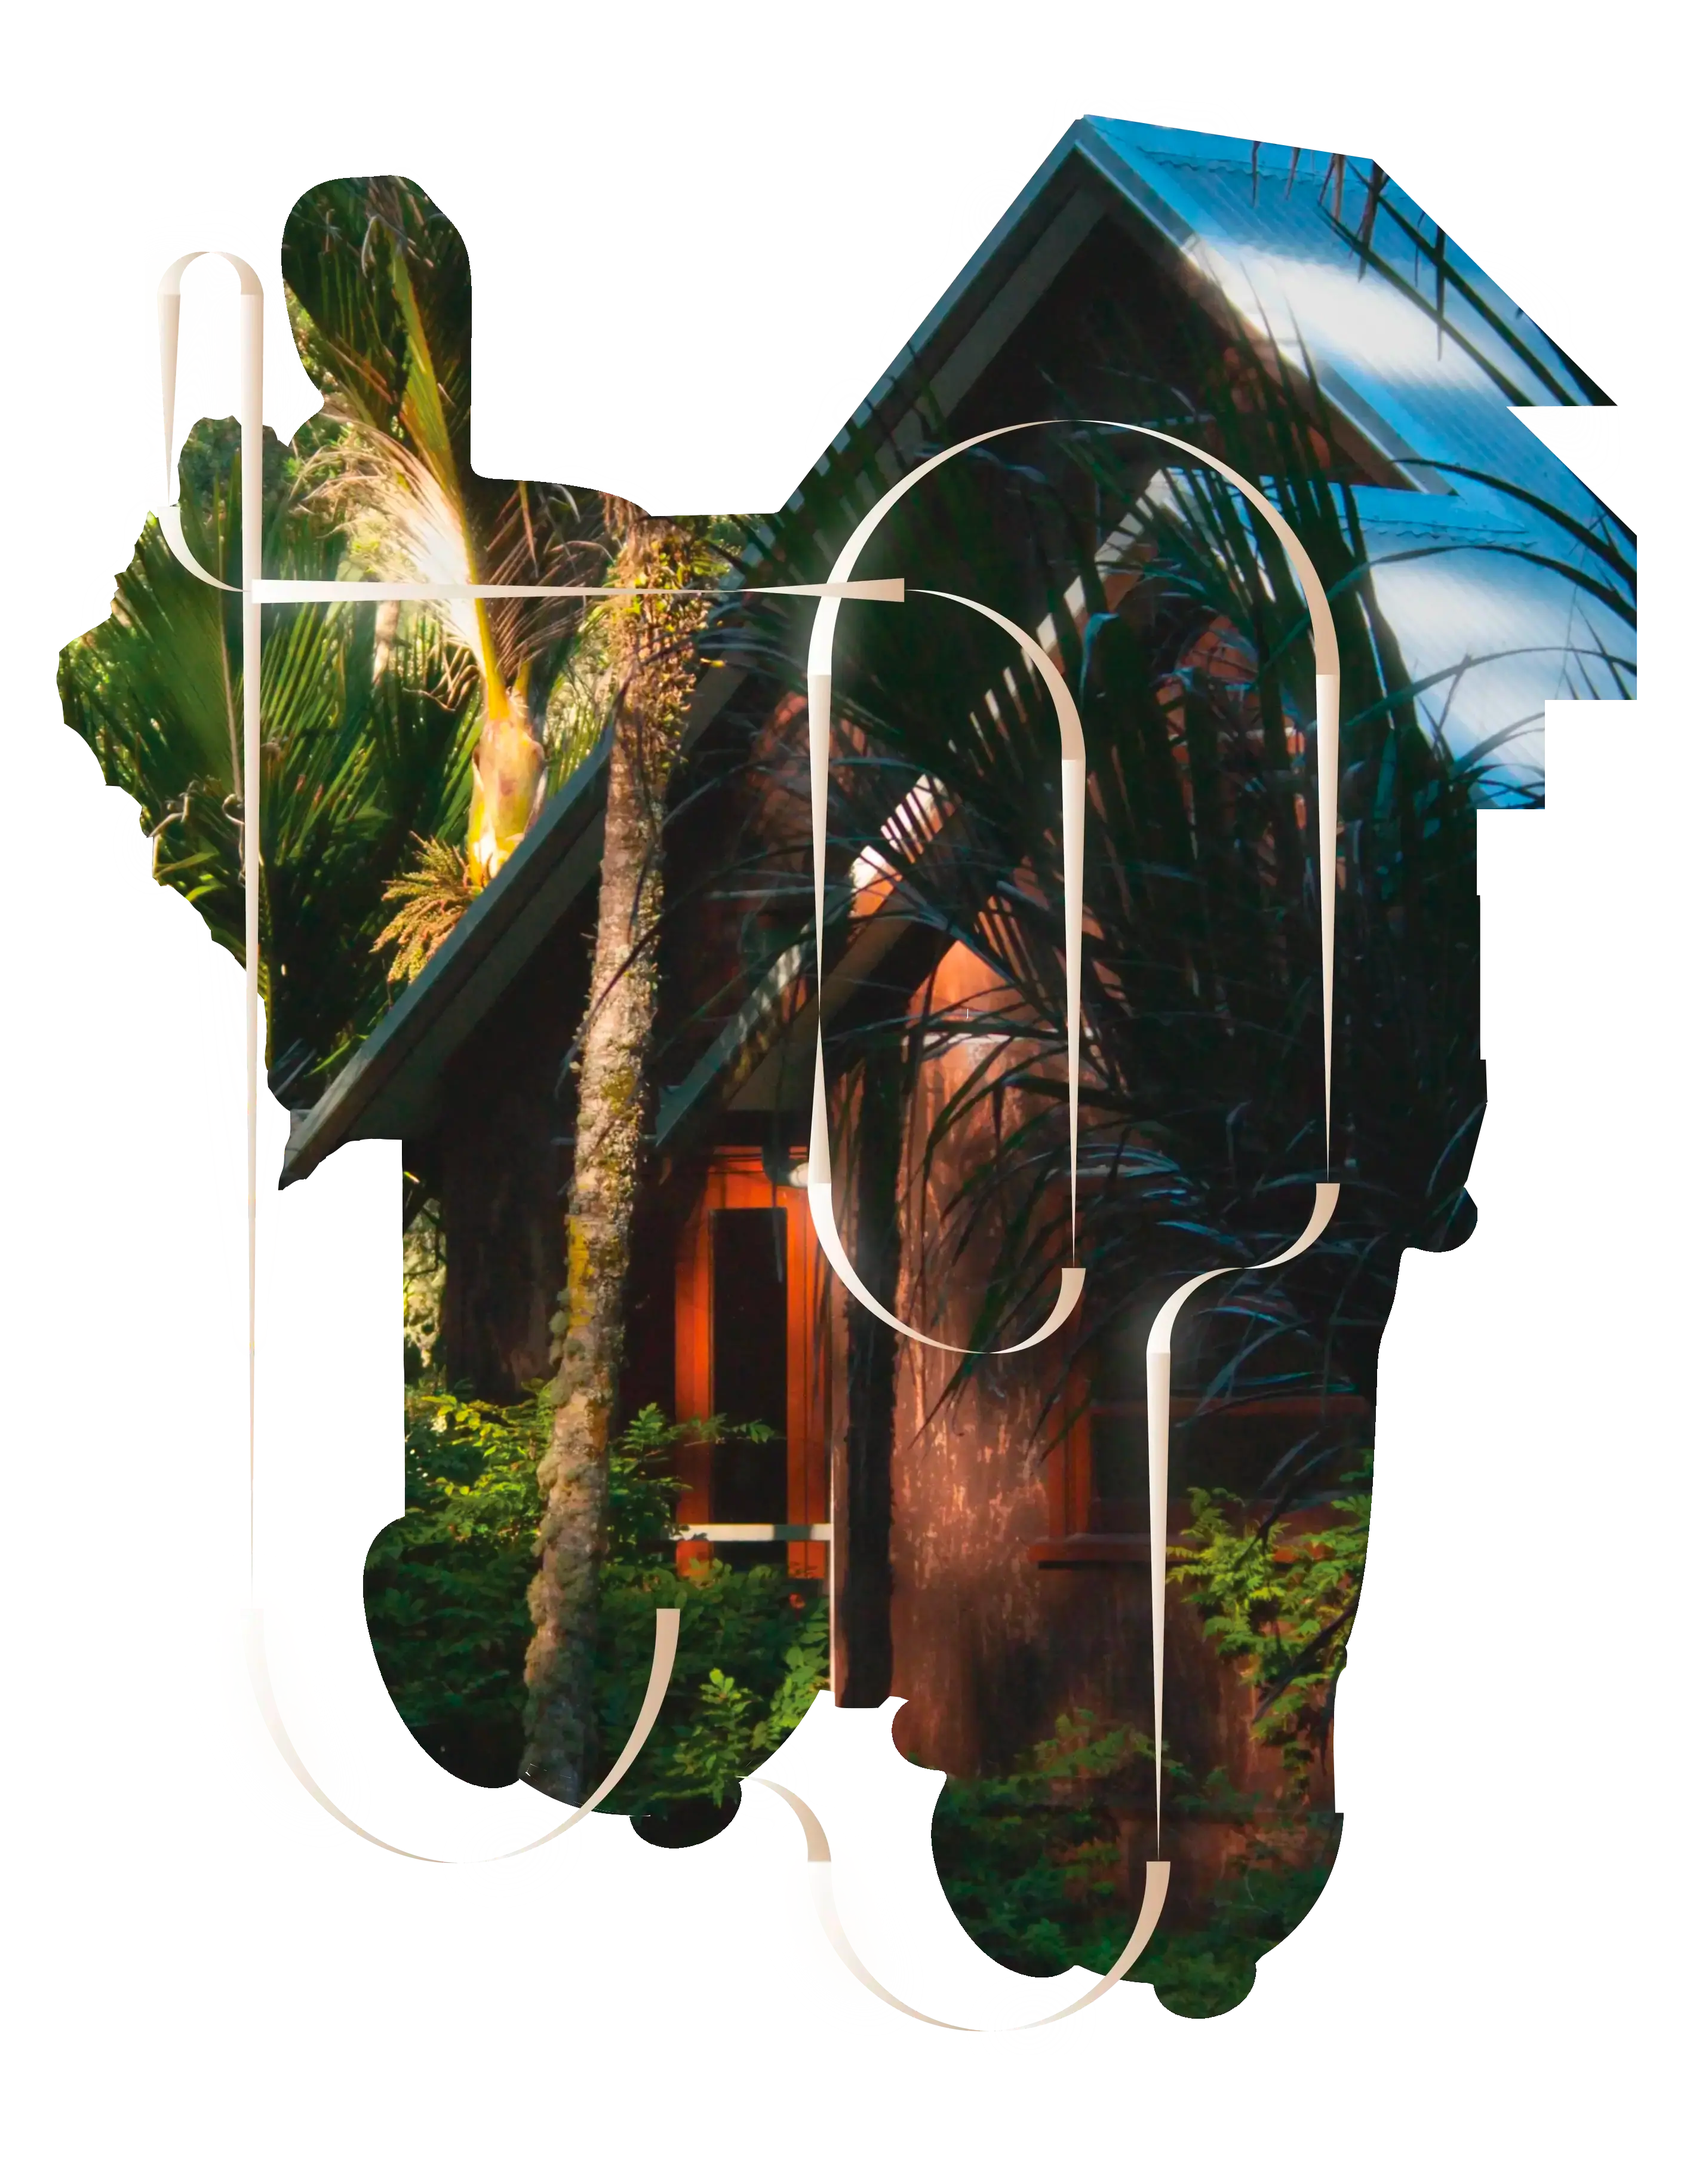
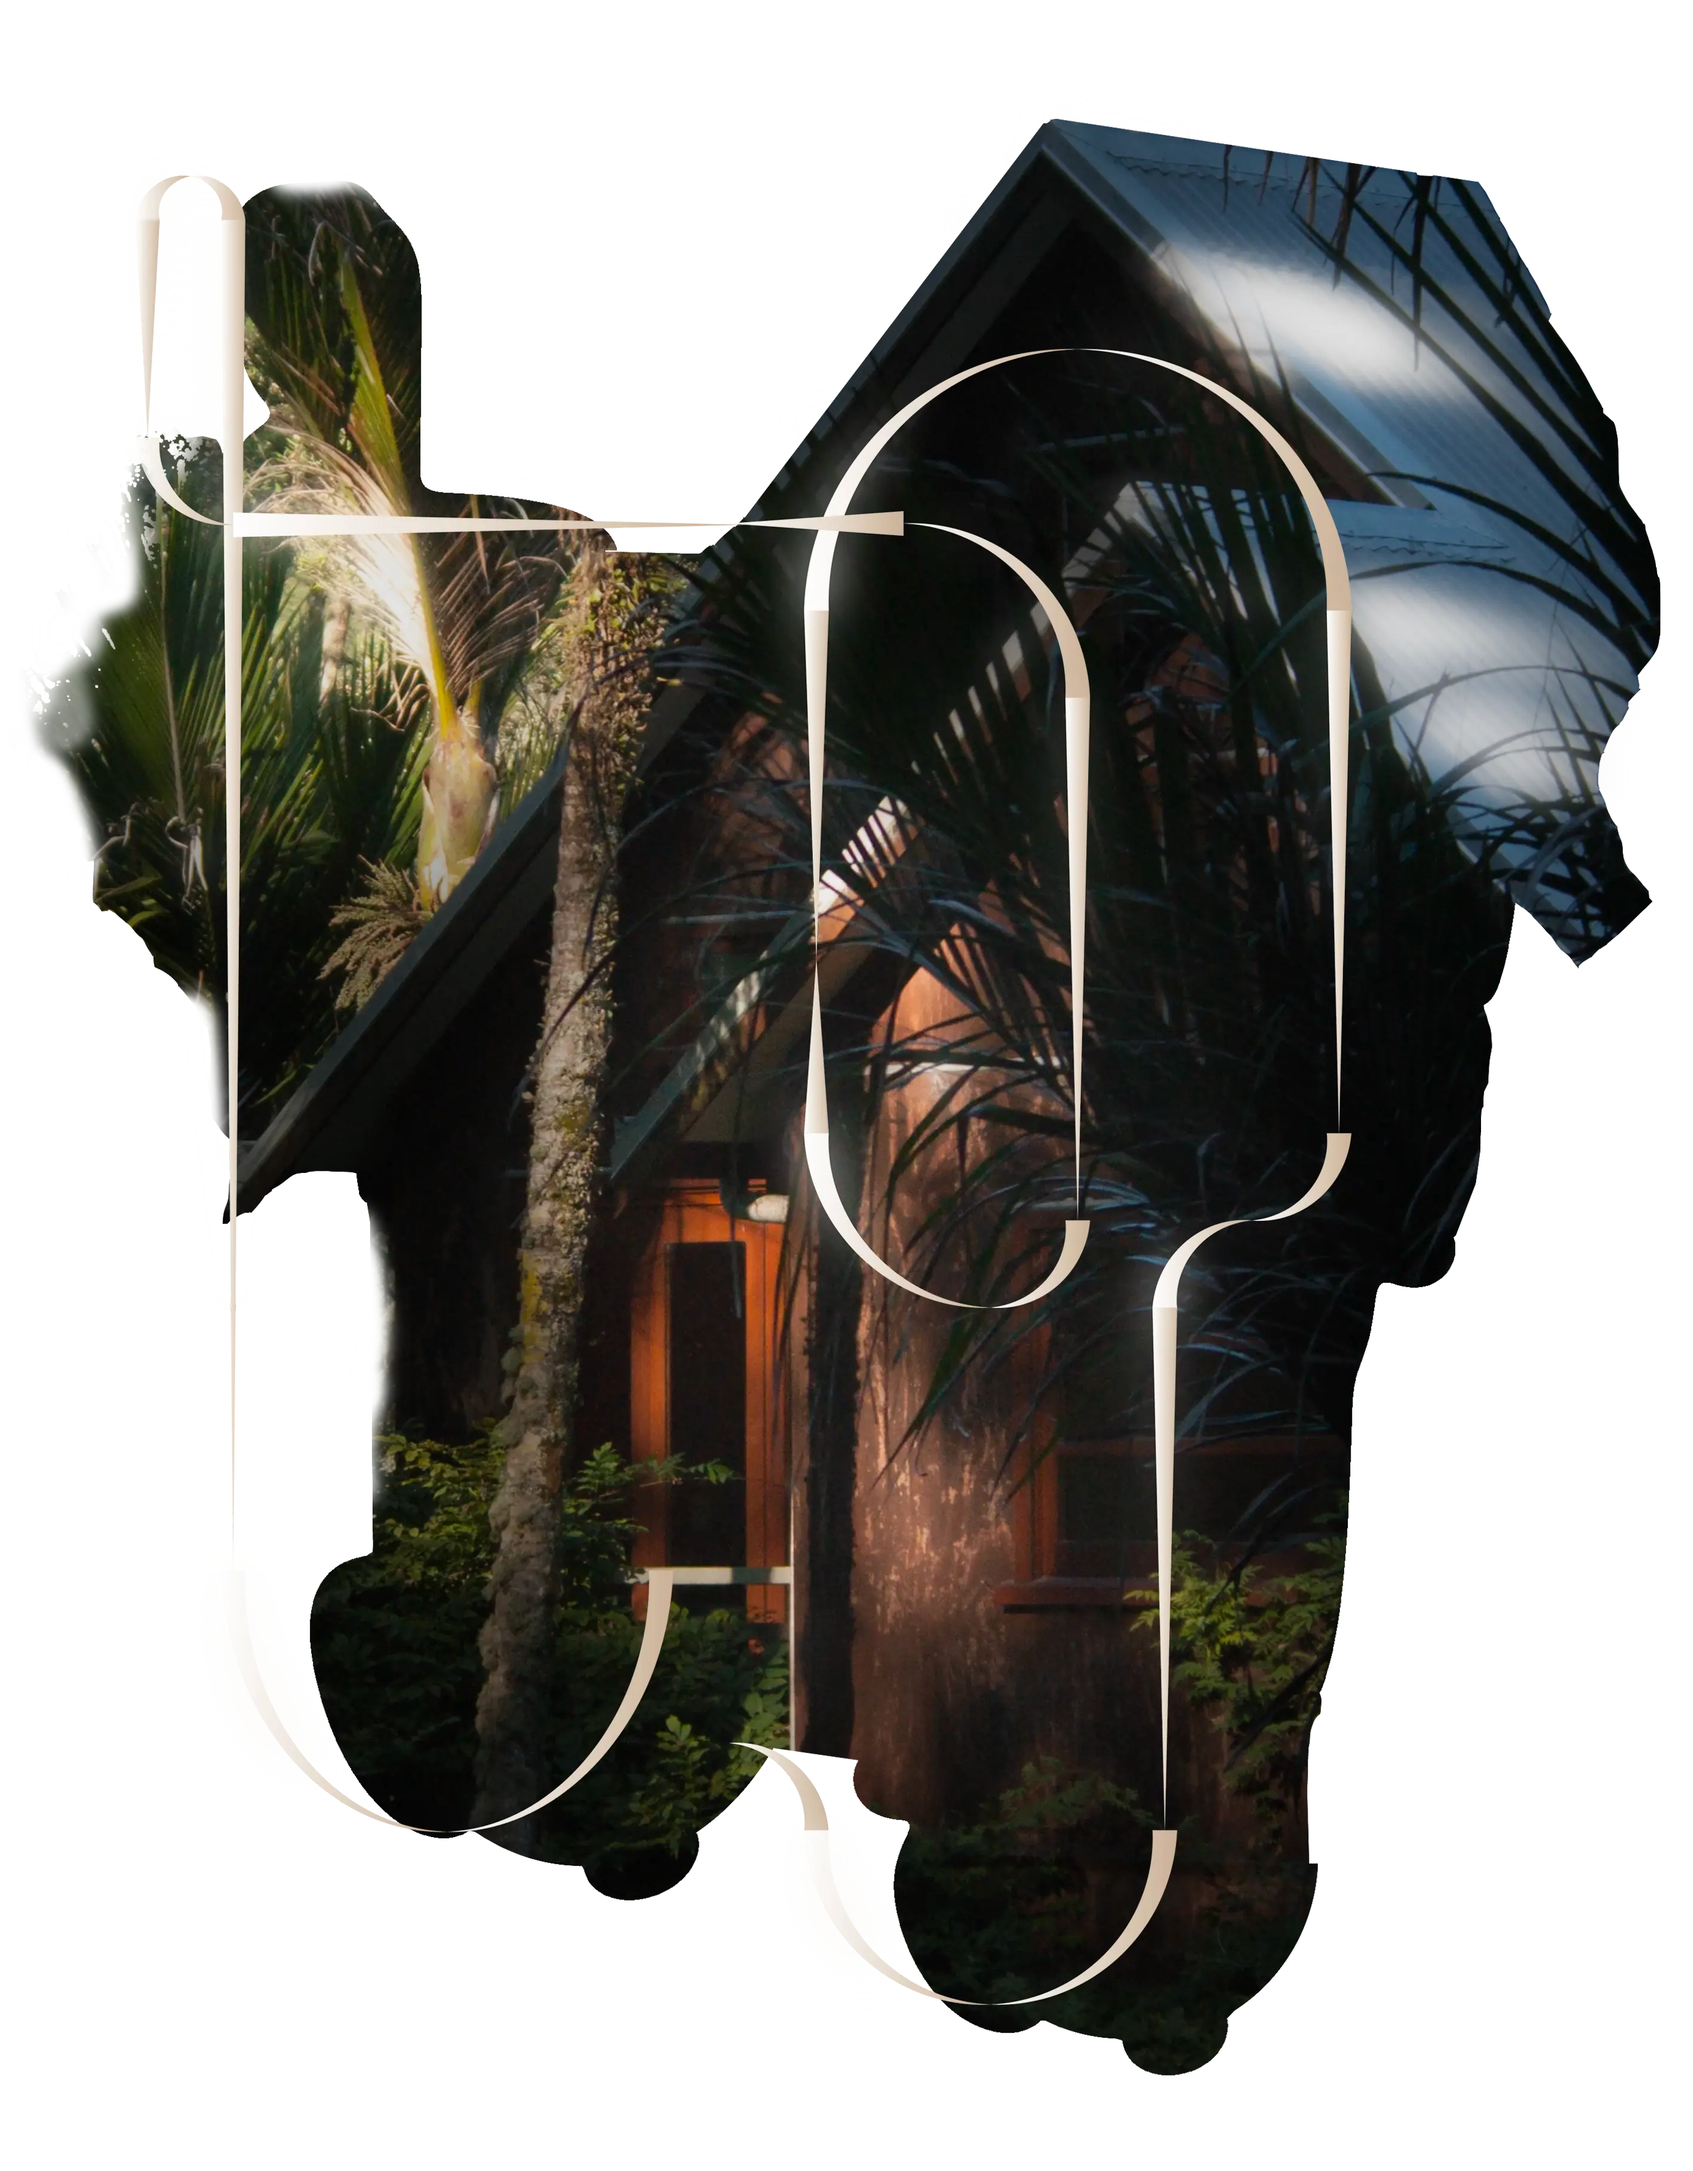
2601251146

diff --git a/frontend/src/pages/Taihua/Taihua.js b/frontend/src/pages/Taihua/Taihua.js
@@ -259,34 +259,33 @@ function Taihua() {
         trackText={getTrackText(4)}
       />
       <QuoteBox
-        text={taihuaMiscTexts[1].miscText}
-        author={taihuaMiscTexts[1].author}
+        text={taihuaMiscTexts[0].miscText}
+        author={taihuaMiscTexts[0].author}
       />
       <section className='taihua_livePhotosContainer'>
           <img src={taihua_photo_portrait} />
       </section>
-      <div className='taihua_doubleTracksContainer'>
-        <TaihuaTrackBox
-          trackNumber={5}
-          imgTitle={taihua_sTitle}
-          trackTitle='shells'
-          trackText={getTrackText(5)}
-        />
+      
+      <TaihuaTrackBox
+        trackNumber={5}
+        imgTitle={taihua_sTitle}
+        trackTitle='shells'
+        trackText={getTrackText(5)}
+      />
 
-        <TwoImagesContainer
-          photo1={taihua_photo_shellphone1}
-          photo2={taihua_photo_foam2}
-          photoBackground={taihua_photo_dolphin}
-          backgroundColor={backgroundColor}
-        />
+      <TwoImagesContainer
+        photo1={taihua_photo_shellphone1}
+        photo2={taihua_photo_foam2}
+        photoBackground={taihua_photo_dolphin}
+        backgroundColor={backgroundColor}
+      />
 
-        <TaihuaTrackBox
-          trackNumber={6}
-          imgTitle={taihua_fjgTitle}
-          trackTitle='franz josef glacier'
-          trackText={getTrackText(6)}
-        />
-      </div>
+      <TaihuaTrackBox
+        trackNumber={6}
+        imgTitle={taihua_fjgTitle}
+        trackTitle='franz josef glacier'
+        trackText={getTrackText(6)}
+      />
       <section className='taihua_livePhotosContainer'>
           <video
             src={taihua_videoFjg}
@@ -296,6 +295,10 @@ function Taihua() {
             playsInline
           />
       </section>
+      <QuoteBox
+        text={taihuaMiscTexts[1].miscText}
+        author={taihuaMiscTexts[1].author}
+      />
       <QuoteBox
         text={taihuaMiscTexts[6].miscText}
         author={taihuaMiscTexts[6].author}

diff --git a/frontend/src/pages/Taihua/Taihua.scss b/frontend/src/pages/Taihua/Taihua.scss
@@ -7,6 +7,7 @@
     position: relative;
     @include Column;
     row-gap: 90px;
+    padding-bottom: 90px;
     @media only screen and (min-width: $padMinWidth) and (max-width: $padMaxWidth){
         row-gap: 45px;          
     }
@@ -20,6 +21,7 @@
         margin-top: 45px;
         width: 100%;
         @include Column;
+        row-gap: 45px;
         font-family: 'Inter';
         color: white;
         position: relative;
@@ -341,7 +343,7 @@
       radial-gradient(90vw 80vh at 75% 75%, #355638 0%, transparent 65%),
       #0b0d0f;
   
-    filter: blur(200px) saturate(80%) contrast(105%) brightness(0.5);
+    filter: blur(150px) saturate(89%) contrast(100%) brightness(0.7);
     animation: taihuaGradientMove 18s ease-in-out infinite;
     transform: translateZ(0); // GPU hint
 
